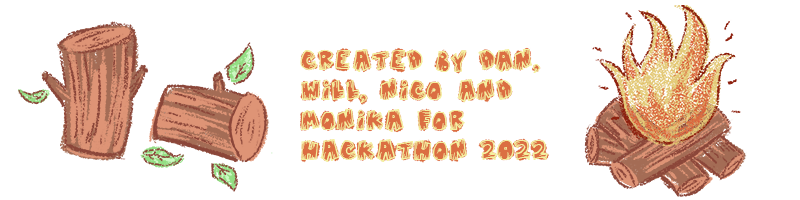
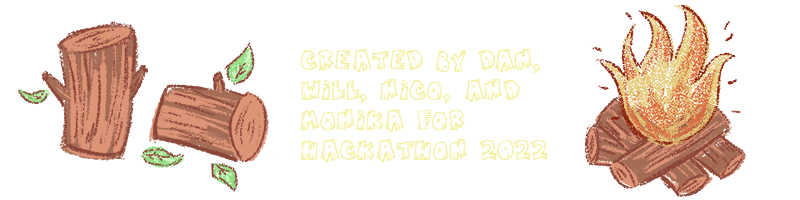
image adjustments
fixed images to be easier on eyes

diff --git a/UI/parkplanner/src/styles/header-styles.css b/UI/parkplanner/src/styles/header-styles.css
@@ -3,7 +3,7 @@
   min-width: 100%;
   margin-bottom: 20px;
   color: #f3f1ca;
-  background-color: #406b45;
+  background-color: #6e986a;
   text-align: center;
   background-image: url("images/header-image.png");
   background-repeat: no-repeat;

diff --git a/UI/parkplanner/src/styles/footer-styles.css b/UI/parkplanner/src/styles/footer-styles.css
@@ -1,7 +1,7 @@
 #footer {
   height: 200px;
   min-width: 100%;
-  background-color: #406b45;
+  background-color: #6e986a;
   text-align: center;
   background-image: url("images/footer.png");
   background-repeat: no-repeat;

diff --git a/UI/parkplanner/src/index.css b/UI/parkplanner/src/index.css
@@ -22,7 +22,7 @@ h2 {
 }
 
 header {
-  background-color: #406b45;
+  background-color: #6e986a;
   width: 100%;
   margin: auto auto;
 }

diff --git a/UI/parkplanner/src/styles/style.css b/UI/parkplanner/src/styles/style.css
@@ -5,7 +5,7 @@
 
 header,
 footer {
-  background-color: #406b45;
+  background-color: #6e986a;
   margin: 0;
 }
 
